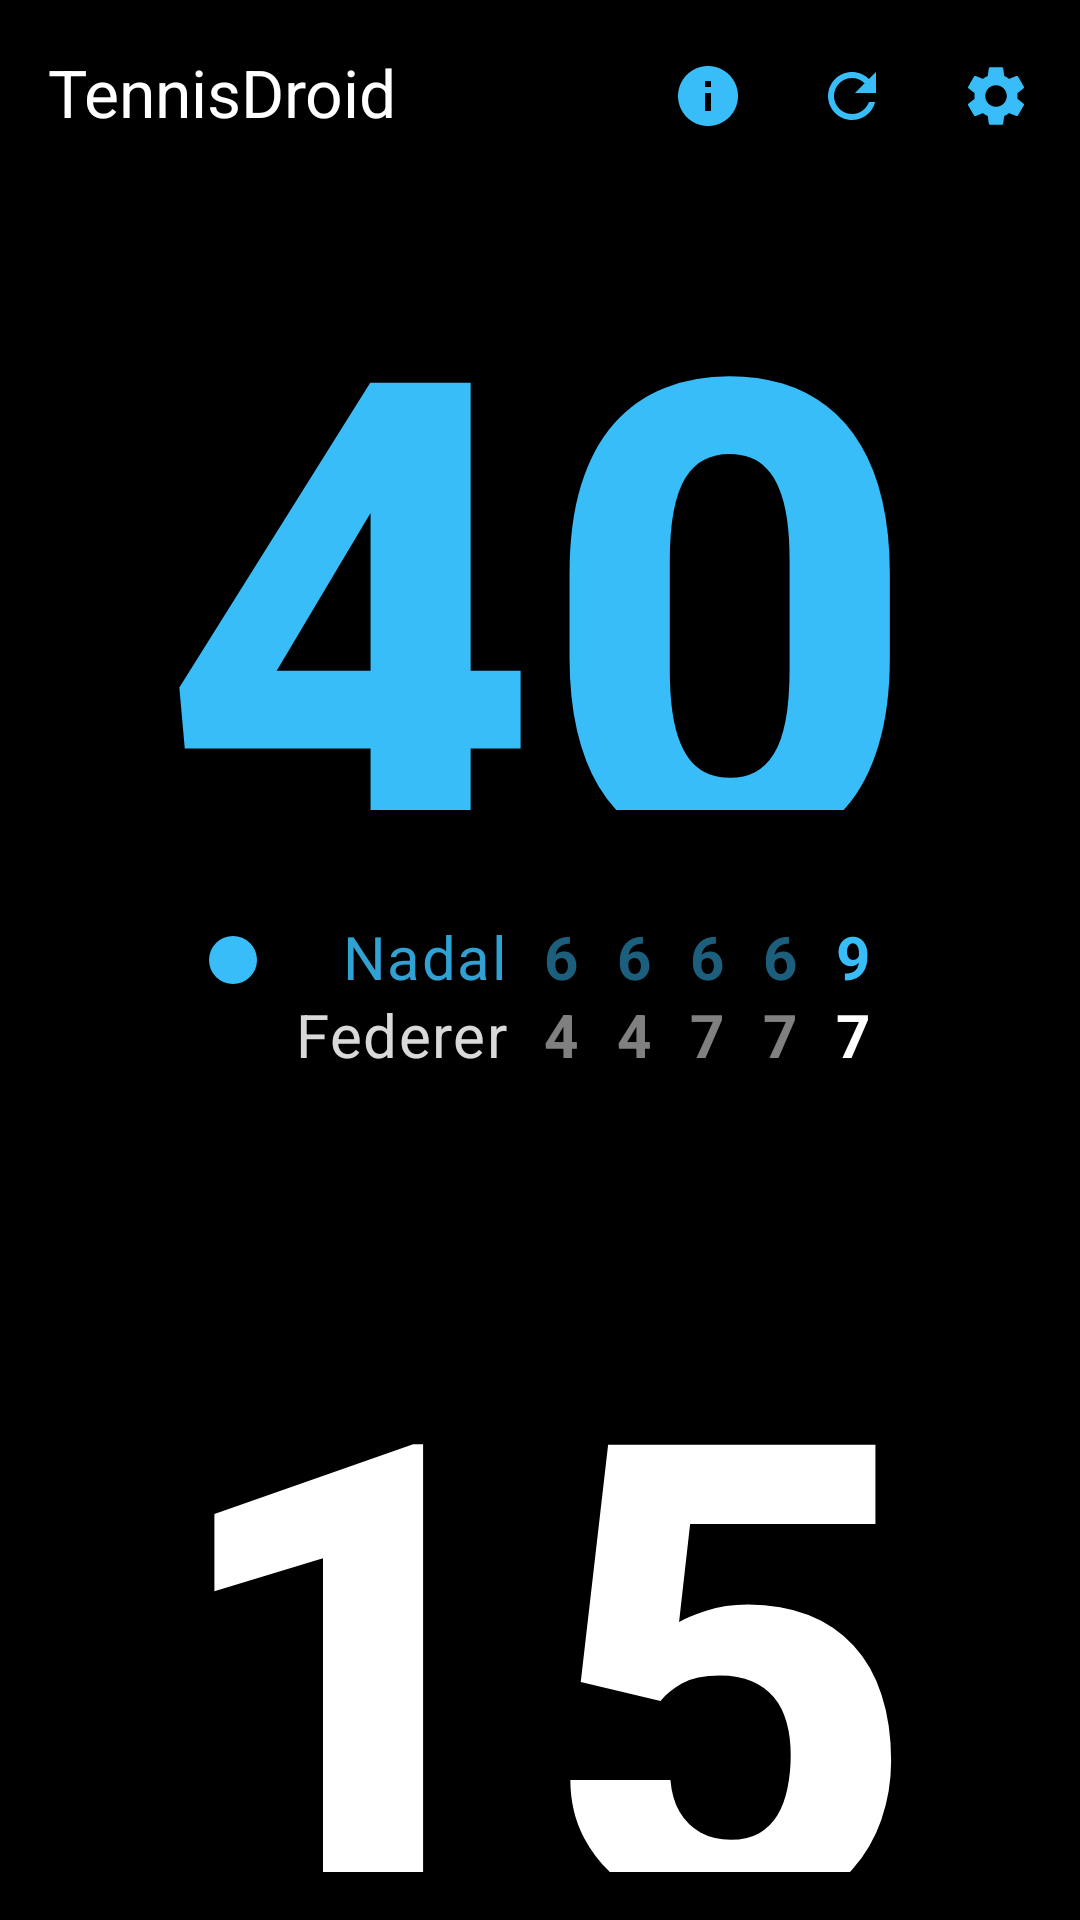
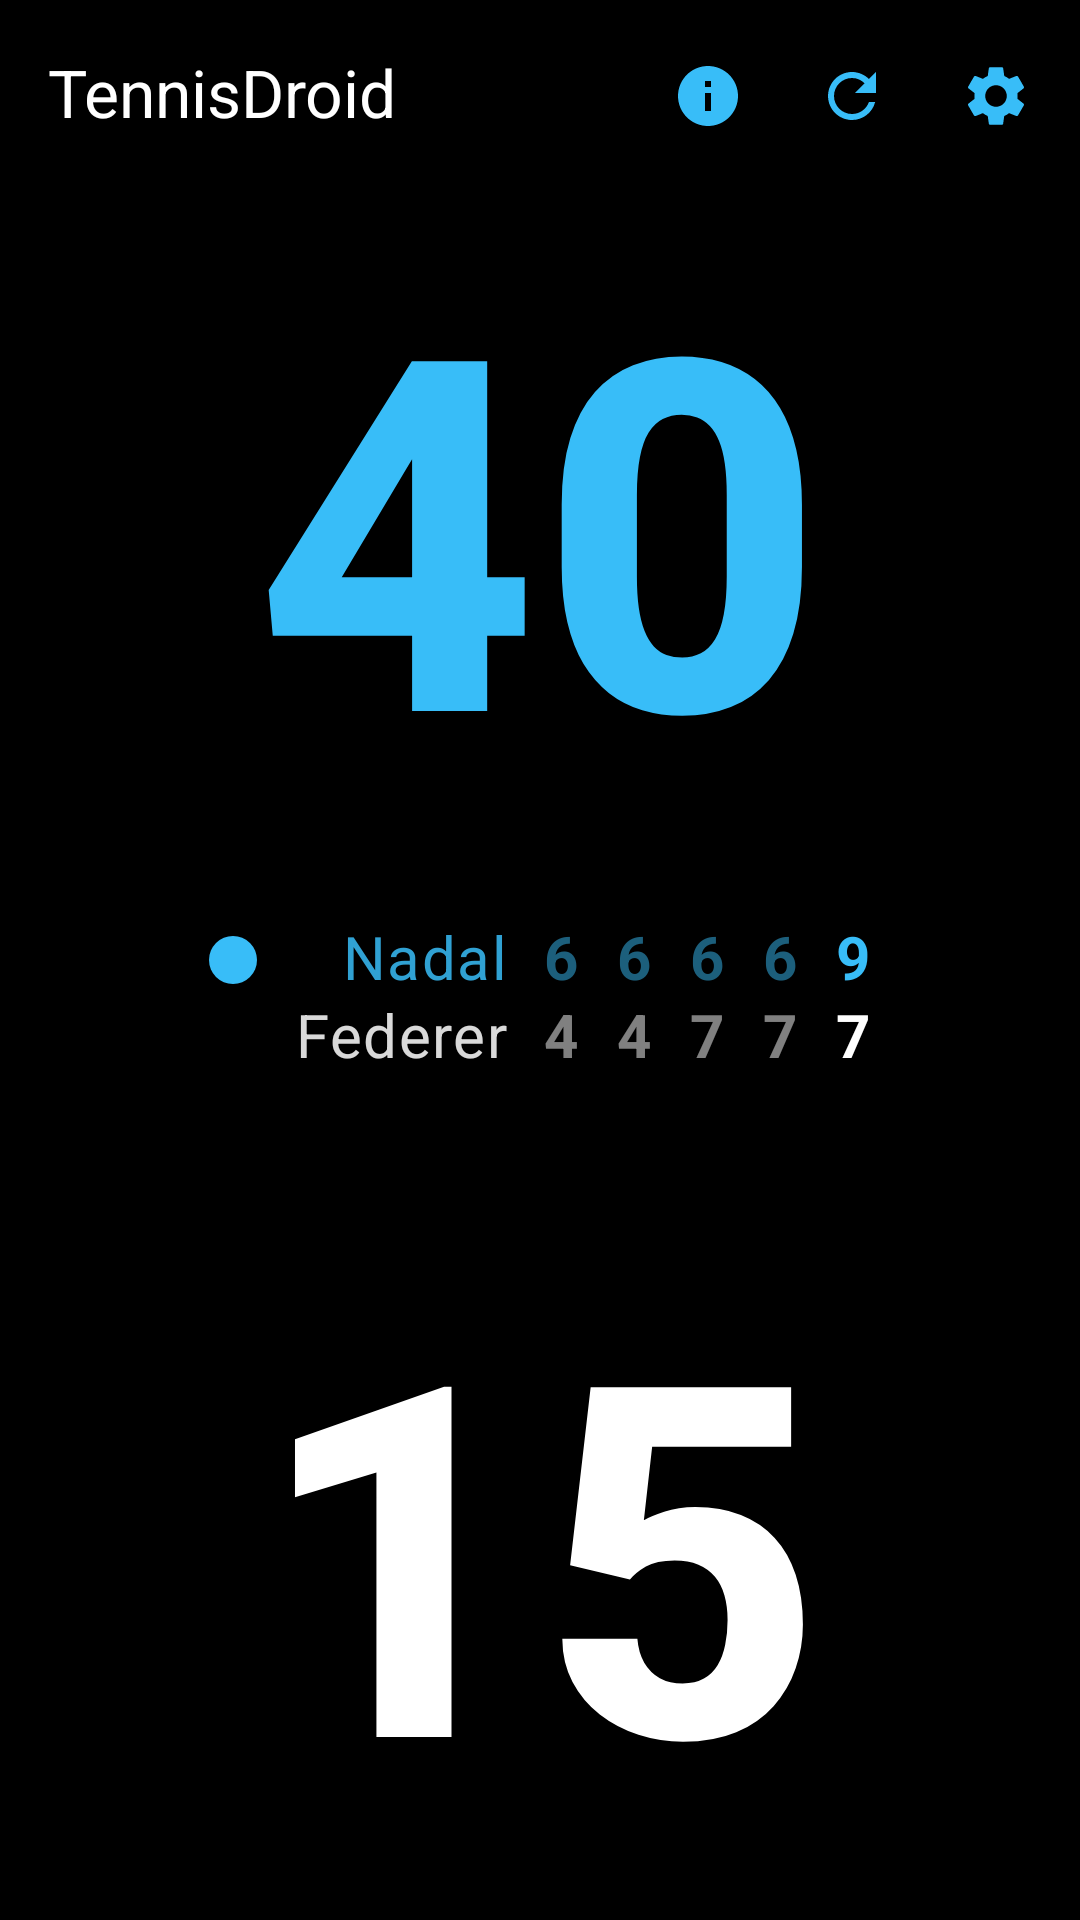
Fix scaling for smaller screen

diff --git a/app/src/main/java/com/nuttyknot/tennisscoretracker/ui/score/ScoreScreen.kt b/app/src/main/java/com/nuttyknot/tennisscoretracker/ui/score/ScoreScreen.kt
@@ -221,7 +221,7 @@ internal fun PortraitScoreContent(
         // User Score (Top) — only show during active match
         if (state.matchWinner == null) {
             Box(
-                modifier = Modifier.weight(1f).padding(bottom = 12.dp).clipToBounds(),
+                modifier = Modifier.weight(1f).clipToBounds(),
                 contentAlignment = Alignment.Center,
             ) {
                 ScoreColumn(
@@ -255,7 +255,7 @@ internal fun PortraitScoreContent(
         // Opponent Score (Bottom) — only show during active match
         if (state.matchWinner == null) {
             Box(
-                modifier = Modifier.weight(1f).padding(top = 12.dp).clipToBounds(),
+                modifier = Modifier.weight(1f).clipToBounds(),
                 contentAlignment = Alignment.Center,
             ) {
                 ScoreColumn(

diff --git a/app/src/main/java/com/nuttyknot/tennisscoretracker/ui/score/ScoreScreenConstants.kt b/app/src/main/java/com/nuttyknot/tennisscoretracker/ui/score/ScoreScreenConstants.kt
@@ -33,7 +33,7 @@ object ScoreScreenConstants {
     val SERVING_DOT_RADIUS = 10.dp
     val VERTICAL_SPACING_LARGE = 32.dp
     val VERTICAL_SPACING_MEDIUM = 16.dp
-    const val PORTRAIT_MAX_SAFE_SIZE_FACTOR = 1.5f
+    const val PORTRAIT_MAX_SAFE_SIZE_FACTOR = 2.0f
     const val LANDSCAPE_MAX_SAFE_SIZE_FACTOR = 2.5f
 
     // Scoreboard table constants
